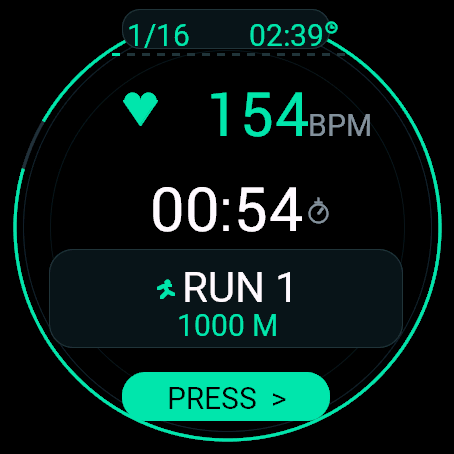
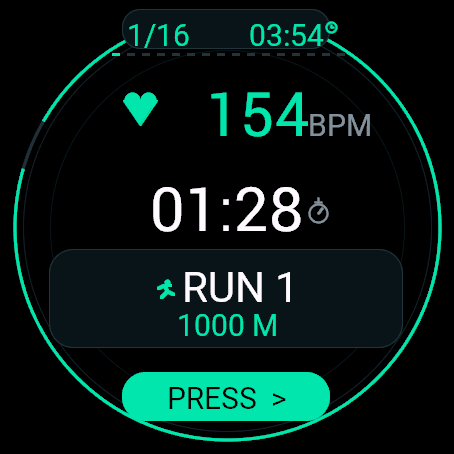
Expand English screenshot gallery

Changed region(s): [[0.5242, 0.4009, 0.6784, 0.5242], [0.4009, 0.4009, 0.4934, 0.5242], [0.5859, 0.0308, 0.7093, 0.1233]]

diff --git a/README.md b/README.md
@@ -11,10 +11,16 @@ fitness brand. Product and company names are intentionally omitted from the app.
 <p align="center">
   <img src="docs/screenshots/setup.png" alt="Language setup in the Garmin Venu 3 simulator" width="31%">
   <img src="docs/screenshots/order.png" alt="Workout order setup in the Garmin Venu 3 simulator" width="31%">
-  <img src="docs/screenshots/active.png" alt="Active training screen in the Garmin Venu 3 simulator" width="31%">
+  <img src="docs/screenshots/active.png" alt="Active run screen in the Garmin Venu 3 simulator" width="31%">
 </p>
 
-<p align="center"><sub>Garmin Venu 3 simulator: setup, station order, and active session.</sub></p>
+<p align="center">
+  <img src="docs/screenshots/activity-station.png" alt="Active station screen in the Garmin Venu 3 simulator" width="31%">
+  <img src="docs/screenshots/stats-summary.png" alt="Post-race summary with mock data in the Garmin Venu 3 simulator" width="31%">
+  <img src="docs/screenshots/stats-pace.png" alt="Post-race pace statistics with mock data in the Garmin Venu 3 simulator" width="31%">
+</p>
+
+<p align="center"><sub>Garmin Venu 3 simulator in English. The two statistics screens use mock workout data.</sub></p>
 
 ## Features
 
